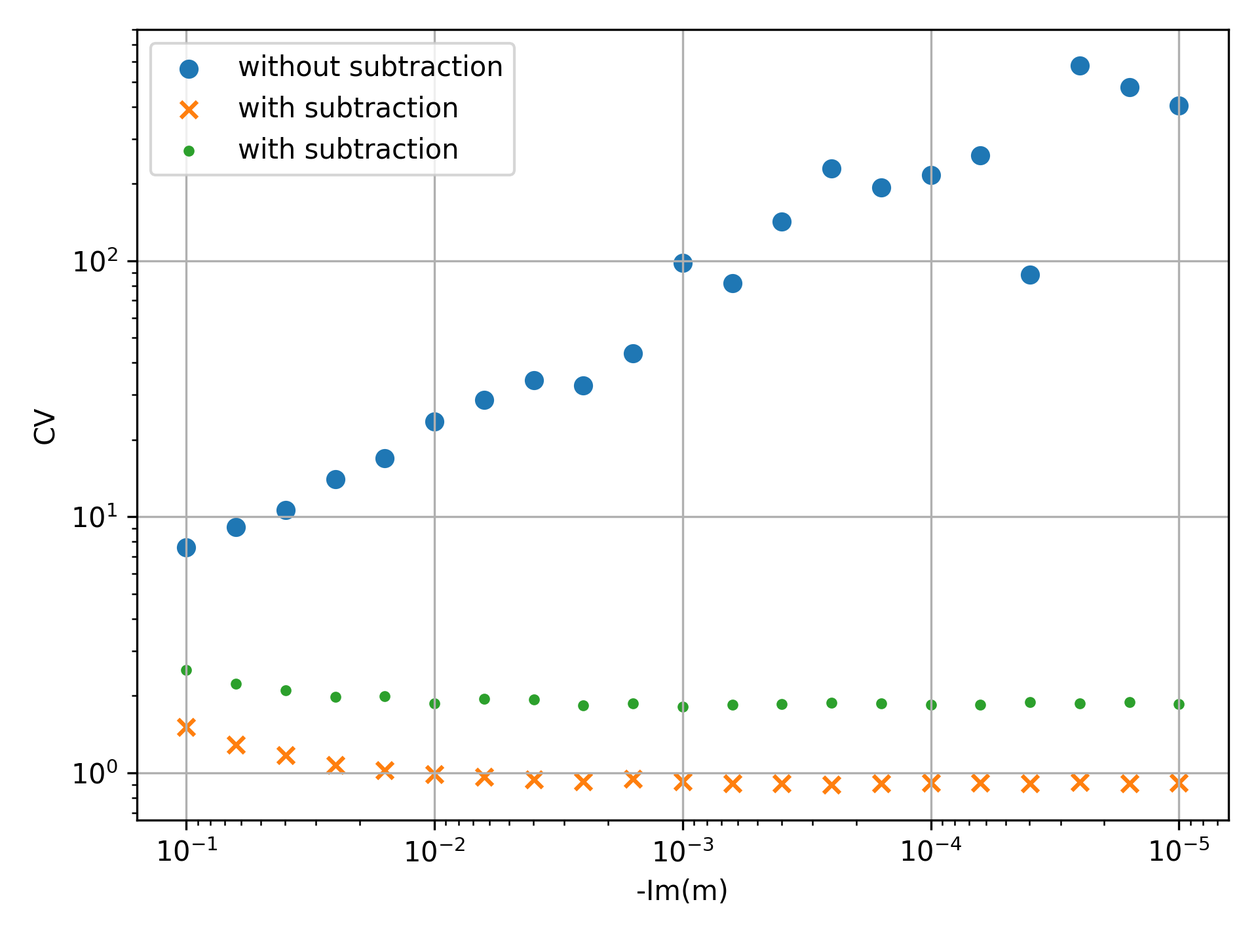
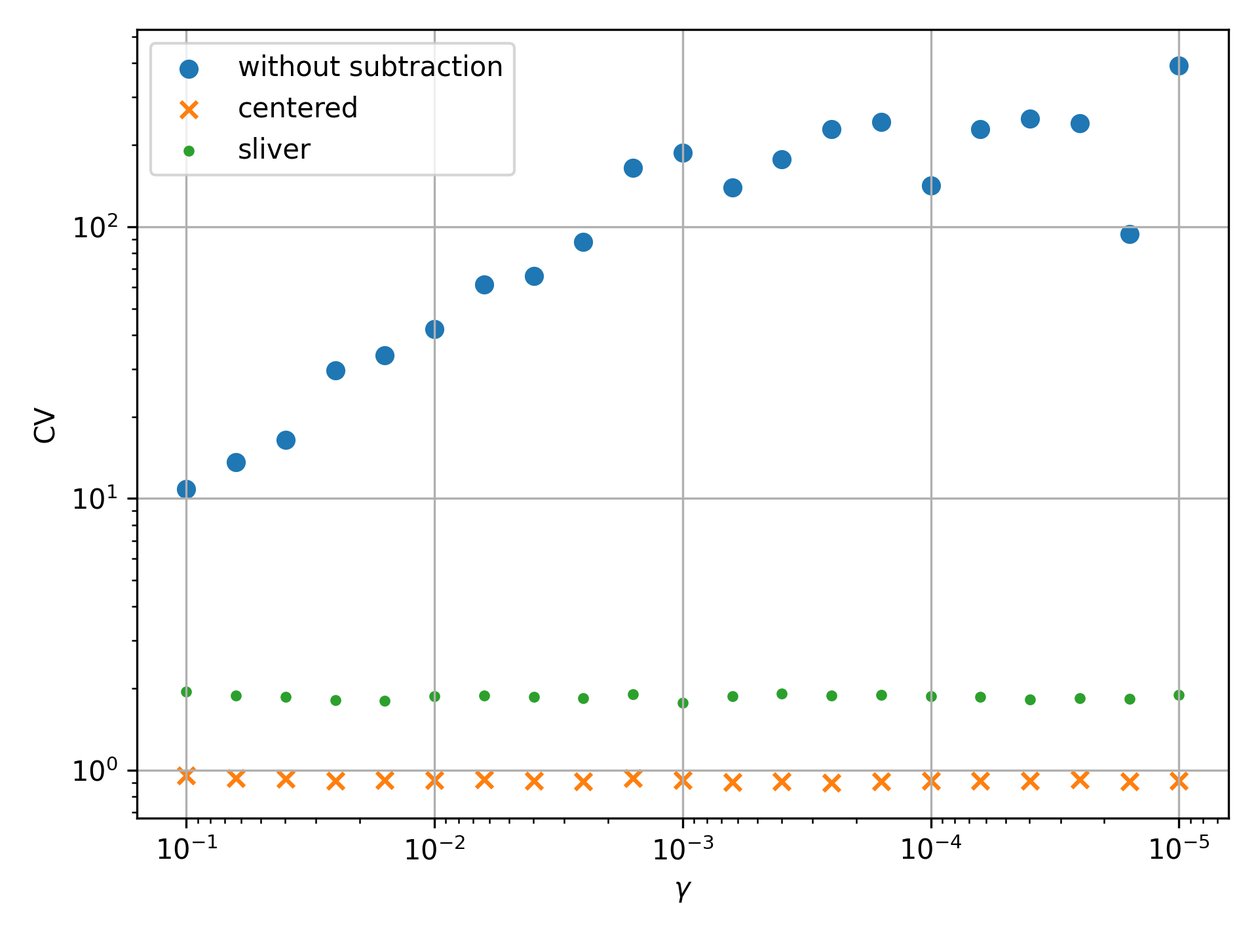
cleaned up later sections

diff --git a/latex/main.tex b/latex/main.tex
@@ -214,7 +214,7 @@ $\Re(m_i^2) > 0$ and $\Im(m_i^2) \leq 0$.
     \input{assets/diagrams/triangle.tex}
     \caption{Feynman diagram of the scalar triangle integral}\label{fig:triangle_feynman}
 \end{figure}
-The Feynman diagram in Figure~\ref{fig:triangle_feynman} produces eq.~\eqref{eq:triangle_integral}.
+The Feynman diagram in fig.~\ref{fig:triangle_feynman} produces eq.~\eqref{eq:triangle_integral}.
 \begin{equation}
     I = \int \frac{\dd[4]{k}}{{(2\pi)}^4} \frac{i}{D_1 \, D_2 \, D_3} \label{eq:triangle_integral}
 \end{equation}
@@ -235,9 +235,9 @@ The momenta $\vb{q_i}$ are defined as
 The structure of the singularities of the triangle
 integral~\eqref{eq:triangle_integral} is intricate, and the singularities are
 present even for large momenta $\vb{k}^\mu \to \infty$. This can be illustrated
-by considering eq~\eqref{eq:triangle_integral} in one spatial dimension. The
+by considering eq.~\eqref{eq:triangle_integral} in one spatial dimension. The
 integrand can the be visualized for all values of $(\vb{k}^0, \vb{k^1}) \in
-    \real^2$, as shown in Figure~\ref{fig:1d_example}.
+    \real^2$, as shown in fig.~\ref{fig:1d_example}.
 
 \begin{figure}[H]
     \centering
@@ -272,7 +272,7 @@ with
 \begin{equation}
     E_i = \sqrt{{\qty(\va{k}-\va{q}_i)}^2+m_i^2} - i\varepsilon
 \end{equation}
-Closing the contour around the poles corresponding to the principal square roots leads to the contour shown in Figure~\ref{fig:poles}
+Closing the contour around the poles corresponding to the principal square roots leads to the contour shown in fig.~\ref{fig:poles}
 \begin{figure}[H]
     \centering
     \input{assets/diagrams/poles.tex}
@@ -468,7 +468,7 @@ At this point it also makes sense to simplify with the lorentz invariant quantit
 %    \vb{q}^2-\frac{m_i^2 + m_j^2}{2} - \va{k'}^2 + {\qty(\va{k'}\cdot \frac{\va{q}}{q^0})}^2 - 2 \qty(\frac{m_i^2 - m_j^2}{4q^0}) \qty(\va{k'}\cdot \frac{\va{q}}{q^0}) + {\qty(\frac{m_i^2 - m_j^2}{4q^0})}^2 = 0
 %\end{equation}
 \begin{equation}
-    \va{k'}^2 - {\qty(\va{k'}\cdot\va{v})}^2 - 2 \Delta \qty(\va{k'}\cdot\va{v}) - \vb{q}^2 + \braket{m^2} + \Delta^2 = 0 \label{eq:quad_k_prime}
+    \va{k'}^2 - {\qty(\va{k'}\cdot\va{v})}^2 + 2 \Delta \qty(\va{k'}\cdot\va{v}) - \vb{q}^2 + \braket{m^2} - \Delta^2 = 0 \label{eq:quad_k_prime}
 \end{equation}
 with
 \begin{equation}
@@ -495,7 +495,7 @@ with
 \begin{align}
     \alpha & = 1-{\qty(\hat{\vb{k}}\cdot\va{v})}^2                                                                             \\
     \beta  & = 2(\hat{\vb{k}}\cdot\va{k'_0})-2(\hat{\vb{k}}\cdot\va{v})(\va{k'_0}\cdot\va{v})-2\Delta(\hat{\vb{k}}\cdot\va{v}) \\
-    \gamma & = \va{k'_0}^2-{\qty(\va{k'_0}\cdot\va{v})}^2-2\Delta(\va{k'_0}\cdot\va{v})-\vb{q}^2+\braket{m^2}+\Delta^2
+    \gamma & = \va{k'_0}^2-{\qty(\va{k'_0}\cdot\va{v})}^2-2\Delta(\va{k'_0}\cdot\va{v})-\vb{q}^2+\braket{m^2}-\Delta^2
 \end{align}
 This quadratic equation can be solved with the standard quadratic formula, and thus always has exactly two complex valued solutions, which will be called $k^*_+$ and $k^*_-$. These solutions need to be checked for validity with one of the proposed methods.
 
@@ -524,7 +524,7 @@ eq.~\eqref{eq:quadratic_k} into the following.
 \end{equation}
 Considering that if the external momenta are on-shell, we find that $\norm{v} < 1$. This ensures that we do not divide be zero, and the sign of the denominator is always positive.
 Thus we can see, that real solutions for $k$ only exist if $\vb{q}^2-m^2 > 0$. In this case eq.~\eqref{eq:quadratic_k_simple} defines a prolate spheroid. This is the shape of the E-surface for equal-mass particles.
-In Figure~\ref{fig:e_surf_example} we see an example of an E-surface in the equal mass case.
+In fig.~\ref{fig:e_surf_example} we see an example of an E-surface in the equal mass case.
 
 \begin{figure}[H]
     \centering
@@ -597,16 +597,41 @@ Several useful observations can be made on the choice of $\chi$.
 For our purposes we choose a mask that is only nonzero in a finite region and cancels the Jacobian factor.
 \begin{equation}
     \chi{\va{k}} = \begin{cases}
-        \frac{{k^*}^2}{k^2} & \abs{\Re(k)-\mu} < \lambda \\
+        \frac{{k^*}^2}{k^2} & \abs{\Re(k)-\mu(k^*)} < \lambda(k^*) \\
         0                   & \text{else}
     \end{cases} \label{eq:mask}
 \end{equation}
-With the real valued hyperparameters $\mu$ and $\lambda$. For a successful subtraction we need to make sure, that the pole of the counterterm is inside the mask, i.e. $\abs{\Re(k^*)-\mu} < \lambda$.
+
+% NOTE: choosing Re(k^*) instead of k^* still works if k^* is real, but does not work for small values of k^*!!!
+% Should maybe write this down somewhere 
+
+With the real valued hyperparameters $\mu(k^*)$ and $\lambda(k^*)$. For a successful subtraction we need to make sure, that the pole of the counterterm is inside the mask, i.e. $\abs{\Re(k^*)-\mu(k^*)} < \lambda(k^*)$.
 With this choice performing the radial integral becomes particularly simple
 \begin{equation}
-    \int \dd{k} I_{\on{CT}}(k^*) = \int_{\mu - \lambda}^{\mu + \lambda} \dd{k} \frac{1}{k-k^*} = \ln(\frac{\mu + \lambda-k^*}{\mu-\lambda-k^*}) \label{eq:integrated_counterterm}
+    \int \dd{k} I_{\on{CT}}(k^*) = f(\va{k^*}) \int_{\mu(k^*) - \lambda(k^*)}^{\mu(k^*) + \lambda(k^*)} \dd{k} \frac{1}{k-k^*} = f(\va{k^*}) \ln(\frac{\mu(k^*) + \lambda(k^*)-k^*}{\mu(k^*)-\lambda(k^*)-k^*}) \label{eq:integrated_counterterm}
 \end{equation}
 
+Regarding the choice of the hyperparameters $\mu(k^*)$ and $\lambda(k^*)$ We will consider 3 different combinations.
+\begin{itemize}
+    \item \textbf{Centered region with constant radius}\\
+    In which case the subtraction region would be independent of the location of the threshold. This means that we must manually ensure that the parameter $\lambda_0$ is chosen large enough to include the threshold in the subtraction region.
+    \begin{align}
+        \mu(k^*) &= 0\\
+        \lambda(k^*) &= \Re(k^*)
+    \end{align}
+    \item \textbf{Sliver region with constant width}\\
+    In which case the subtraction region would be a sliver with a half width of $\lambda_0$. This has the advantage of being more robust with respect to the choice of the hyperparameter $\lambda_0$.
+    \begin{align}
+        \mu(k^*) &= \Re{k^*}\\
+        \lambda(k^*) &= \lambda_0
+    \end{align}
+    \item \textbf{Sliver region with variable width}\\
+    In which case the subtraction region would be a sliver with a half width of $\lambda_0$ centered around the threshold located in the complex plane. Meaning that the subtraction region viewed from the real axis would get smaller as the imaginary part of the threshold gets larger.
+    \begin{align}
+        \lambda(k^*) &= \lambda_0\\
+        \lambda(k^*) &= \sqrt{\lambda_0^2 - {\Im(k^*)}^2}\Theta(\lambda_0^2 - {\Im(k^*)}^2) \label{eq:sliver_mod}
+    \end{align}
+\end{itemize}
 %We may compare this result with the result derived in~\cite{kermanschah_numerical_2022}, where only real valued thresholds are considered. Therefore they choose a symmetric mask so that the real part of the counterterm vanishes.
 %Our mask is also symmetric, if we choose the hyperparameters correctly, namely where $\mu = \Re k^*$. In this case real part vanishes due to symmetry around $\Re k^*$ and the result becomes
 %\begin{equation}
@@ -657,11 +682,11 @@ We consider the simple approach, where the integrated counterterm is scaled by s
 
 For our purposes we will consider two different functions $g(k)$
 \begin{equation}
-    g_{\Theta}(k) = \Theta(\lambda - \abs{\Re(k)-\mu}) \frac{3}{{(\mu+\lambda)}^3 - {(\mu-\lambda)}^3}
+    g_{\Theta}(k) = \Theta(\Lambda - \abs{\Re(k)-\mu}) \frac{3}{{(\mu+\Lambda)}^3 - {(\mu-\Lambda)}^3}
 \end{equation}
 
 \begin{equation}
-    g_{\exp}(k) = \exp(-\frac{{(\Re(k)-\mu)}^2}{\lambda^2}) \frac{1}{\sqrt{\pi} \lambda (\mu^2 + \frac{\lambda^2}{2})}
+    g_{\exp}(k) = \exp(-\frac{{(\Re(k)-\mu)}^2}{\Lambda^2}) \frac{1}{\sqrt{\pi} \Lambda (\mu^2 + \frac{\Lambda^2}{2})}
 \end{equation}
 
 To facilitate implementation of both the original integrand, the counterterm, integrated counterterm and any combination thereof we will also introduce the scaling factors $\mathbf{a}, \mathbf{b}, \mathbf{c} \in \{0,1\}$ to
@@ -677,14 +702,42 @@ Introducing the scaling factors and the factor $g(k)$ to eq.~\eqref{eq:integral_
 
 \section{Numerical implementation}\label{sec:numerical_implementation}
 
-The numerical implementation of the integrand in eq.~\eqref{eq:integrand} is performed in Python using the Python API of the \texttt{Symbolica} library~\cite{symbolica}, which supports compilation of symbolic expressions into optimized assembly code for fast evaluation and implements efficient algorithms for numerical integration. The source code of our implementation is available on github under the MIT license\footnote{\url{https://github.com/SecretGmG/triangler}}.
+The numerical implementation of the integrand in eq.~\eqref{eq:integrand} is performed in Python using the Python API of the \texttt{Symbolica} library~\cite{symbolica}, which supports compilation of symbolic expressions into optimized assembly code for fast evaluation and the \emph{VEGAS} algorithm for numerical integration.
+
+Our implementations allows for the building of the integrand from eq.~\eqref{eq:integrand}. It is possible to choose between any of the following features during the build process of the expression.
+\begin{itemize}
+    \item Enable/disable the numerical check existence condition.
+    \item Choose between the $g_{\exp}$ and $g_\Theta$ scaling functions.
+    \item Choose whether the center of the subtraction region $\mu$ should be chosen at the real value of the location of the threshold $\mu = \Re(k^*)$ or at the origin of the coordinate system $\mu = 0$.
+    \item Choose whether or not to modify the hyperparameter $\lambda$ in accordance to eq.~\eqref{eq:sliver_mod} $\lambda = \sqrt{\lambda_0^2 - {\Im(k^*)}^2}\Theta(\lambda_0^2 - {\Im(k^*)}^2)$
+\end{itemize}
+The minimum value existence condition is controlled via an additional hyperparameter which determines the maximum allowed value of $\min_{\vb{k}} \ELIPT{i}{j}$ for each E-surface. To enable the minimum value existence condition set the hyperparameter zero, to disable the minimum value existence condition set the hyperparameter to infinity.
+
+All other hyperparameters and parameters can be set via a context object which is used to call the compiled expression.
+
+implThe source code of our implementation is available on github under the MIT license\footnote{\url{https://github.com/SecretGmG/triangler}}.
 
 
 \subsection{Numerical Integration}
-TODO: Short primer on numerical integration and measuring convergence.
 
-\subsubsection{Parametrization}
-\texttt{Symbolica} provides efficient sampling in $N$-dimensional hypercubes.
+Monte Carlo integration estimates an integral by sampling the integrand at randomly chosen points in the integration domain. The integral is approximated by the sample mean multiplied by the volume of the domain. Since the estimator is an average, its uncertainty can be estimated by the standard error of the mean, given by the sample standard deviation divided by the square root of the number of samples.
+
+Symbolica implements the \emph{VEGAS} algorithm for numerical integration, which adapts the sampling grid to the shape of the integrand, sampling regions where the integrand is large more frequently and regions where the integrand is small, thus improving the accuracy of the estimate.
+
+The \emph{VEGAS} algorithm treats each dimension separately and partitions each dimension into $n$ bins. Samples are taken from the grid by sampling a floating point number between $0$ and $1$ per dimension.
+
+The grid starts out uniformly, but then adapts to concentrate around the peaks. Since each bin is sampled with equal probability, with smaller bins are sampled more often. This drastically improves the convergence of the algorithm and lowers the error.
+
+Symbolica only supports integration of real-valued functions. However, because its integration algorithm separates sampling, evaluation, and aggregation, we can extend it to complex-valued integrands by treating the real and imaginary parts as independent real-valued estimators. The sampling grid is adapted using the absolute value of the integrand, ensuring that regions important for both components are sampled.
+
+To compare different hyperparameter choices, we require an error measure that is independent of both the number of samples and the scale of the external momenta. We therefore use the coefficient of variation (CV), defined as the ratio of the estimated standard error to the absolute value of the estimated mean.
+
+\begin{equation}
+    CV = \frac{\sigma_I}{\abs{\bar{I}}}
+\end{equation}
+
+
+\emph{Symbolica} will always sample points in $N$-dimensional hypercube. The integral we actually want to compute is however 3-dimensional, specifically parameterized hemispherically.
 There are many reasonable choices to map from the unit hypercube to hemispherical coordinates. We choose the following mapping from unit hypercubes to the relevant parametrizations with their respective Jacobians $J$.
 
 \textbf{Unit Hemisphere}
@@ -717,38 +770,22 @@ with
 \end{equation}
 
 \subsection{Reference}
-The \textit{OneLOop} package~\cite{hameren_oneloop_2011} provides
-implementation for scalar loop integrals with up to 4 legs. We will use the
-open source package
-\textit{OneLOopBridge}\footnote{\url{https://github.com/SecretGmG/OneLOopBridge}}
-that was written in conjunction to this thesis to compute the reference values
-for the integrals.\textit{OneLOopBridge} provides Python and Rust bindings for
-the \textit{OneLOop} package, which is written in Fortran. A more detailed
-description of the usage of \textit{OneLOopBridge} can be found in
-Appendix~\ref{sec:oneloopbridge}.
+To check our implementation we need to compare it to some reference values.\@\textit{OneLOop} implements the analytical solutions for scalar loop integrals with up to 4 legs, thus providing the exact results for the integrals we are interested in. To facilitate the comparison we have implemented a Python wrapper for the \textit{OneLOop} package called \textit{OneLOopBridge}\footnote{\url{https://github.com/SecretGmG/OneLOopBridge}} that was written in conjunction to this thesis to compute the reference values for the integrals.\@\textit{OneLOopBridge} provides Python and Rust bindings for the \textit{OneLOop} package, which is written in Fortran. A more detailed description of the usage of \textit{OneLOopBridge} can be found in Appendix~\ref{app:oneloopbridge}.
 
 \section{Results}\label{sec:results}
 \subsection{Small width}\label{sec:small_width}
-It is possible to regularize the integral by adding a small imaginary part to
-the masses. In this example we show the effect of this regularization on the
-numerical stability of the integral. As the regularization becomes smaller the
-threshold subtraction becomes necessary to ensure numerical stability of the
-integral, even for small finite widths.
+It is possible to regularize the integral by adding a small imaginary part to the masses. In this example we show the effect of this regularization on the numerical stability of the integral. As the regularization becomes smaller the threshold subtraction becomes necessary to ensure numerical stability of the integral, even for small finite widths.
 
-The external momenta in this example are chosen, such that they are aligned
-with the $z$-axis and in the COM-system. The masses in this example are always
-chosen to be equal $m_i = m$.
+The external momenta in this example are chosen, such that they are aligned with the $z$-axis and in the COM-system. The masses in this example are always chosen to be equal $m_i = m$.
 
 \begin{align*}
-    \vb{p_1}^2 = \SI{1}{\GeV^2} \qquad \vb{p_2}^2 = \SI{3}{\GeV^2} \qquad {(\vb{p_1}+\vb{p_2})}^2 = \SI{8}{\GeV^2}\qquad \Re(m) = \SI{0.2}{\GeV}
+    \vb{p_1}^2 = \SI{1}{\GeV^2} \qquad \vb{p_2}^2 = \SI{3}{\GeV^2} \qquad {(\vb{p_1}+\vb{p_2})}^2 = \SI{8}{\GeV^2}\qquad m = (1+\gamma i)\SI{0.4}{\GeV}
 \end{align*}
+where $\gamma$ is a dimensionless parameter controlling the decay width.
 
-In this example all of the three possible E-surfaces exist, this can be easily
-checked by applying the minimum value existence condition derived in
-Section~\ref{sec:extraneous_solutions}.
+In this example all of the three possible E-surfaces exist, this can be easily checked by applying the minimum value existence condition derived in Section~\ref{sec:extraneous_solutions}.
 
 \begin{samepage}
-
     This example will be used to compare the convergence behavior of different
     hyperparameters, as the width, which regularizes the integral gets smaller and
     thus the threshold subtraction becomes necessary. The following setups will be
@@ -762,8 +799,8 @@ Section~\ref{sec:extraneous_solutions}.
 
 \end{samepage}
 The threshold subtraction for the centered and uncentered cases are shown in
-Figure~\ref{fig:threshold subtraction_centered} and Figure~\ref{fig:threshold
-    subtraction_uncentered} respectively. On the lower half of the plots, where the
+fig.~\ref{fig:threshold subtraction_centered} and fig.~\ref{fig:threshold
+    subtraction_uncentered} respectively, to demonstrate the subtraction of complex poles a finite width with the parameter $\gamma = 0.01$ is used. On the lower half of the plots, where the
 integrand is shown along the $z$-axis it can be seen qualitatively that the
 threshold subtraction successfully removes the poles and flattens the
 integrand. We may also notice, that the sliver threshold subtraction produces
@@ -771,14 +808,14 @@ more discontinuities.
 
 Subtracting a sliver does however have the advantage of being more robust with
 respect to the choice of the hyperparameter $\lambda$, which is the half width
-of the sliver, as the subtraction region will \textit{always} contain the pole.
+of the sliver, as the subtraction region will \emph{always} contain the pole.
 Whereas subtracting a centered region will only contain the pole if the
 hyperparameter is large enough.
 \begin{figure}[H]
     \centering
     \includegraphics[width=0.9\textwidth]{assets/small_width/centered_subtraction.png}
     \caption{Centered threshold subtraction}\label{fig:threshold subtraction_uncentered}
-    Visualization of the threshold subtraction, with complex mass $m = (0.2-0.01 \mathit{i})\si{\GeV}$, using the
+    Visualization of the threshold subtraction, with complex mass $m = \SI{0.4}{\GeV}(1-0.01 i)$, using the
     The unsubtracted integrand, the counterterm and the subtracted integrand are shown in the $xz$-plane. The colormap is such the brightness corresponds to the absolute value of the function and the hue corresponds to the phase, with cyan corresponding to positive values and red corresponding to negative values.
 \end{figure}
 
@@ -786,16 +823,11 @@ hyperparameter is large enough.
     \centering
     \includegraphics[width=0.9\textwidth]{assets/small_width/uncentered_subtraction.png}
     \caption{Sliver threshold subtraction}\label{fig:threshold subtraction_centered}
-    Visualization of the threshold subtraction, with complex mass $m = (0.2-0.01 \mathit{i})\si{\GeV}$.
+    Visualization of the threshold subtraction, with complex mass $m = \SI{0.4}{\GeV}(1-0.01 i)$.
     The unsubtracted integrand, the counterterm and the subtracted integrand are shown in the $xz$-plane. The colormap is such the brightness corresponds to the absolute value of the function and the hue corresponds to the phase, with cyan corresponding to positive values and red corresponding to negative values.
 \end{figure}
 
-The integration is performed using the complex mass regularization for
-$-\Im(m)$ approaching zero. This coefficient is computed separately for the
-real and imaginary parts of the integration. The result of the numerical
-integration is shown in Figure~\ref{fig:small_width_integration}. It can be
-seen, that both the sliver and centered subtraction converge well on the
-correct result, even as the width gets smaller.
+We will now perform the integral for a range of parameters $\gamma$ approaching zero.  The result of the numerical integration is shown in fig.~\ref{fig:small_width_integration}. It can be seen, that both the sliver and centered subtraction converge well on the correct result, even as the width gets smaller.
 
 \begin{figure}[H]
     \centering
@@ -815,13 +847,7 @@ correct result, even as the width gets smaller.
     \caption{Comparison of subtraction regions across a range decay widths}\label{fig:small_width_integration}
 \end{figure}
 
-We can measure the convergence of the Monte Carlo integration using the
-coefficient of variation, defined as the standard deviation divided by the
-mean.
-\begin{equation}
-    \on{CV} = \frac{\sigma}{\mu}
-\end{equation}
-The coefficient of variation is shown in Figure~\ref{fig:small_width_cv}. It can be seen, that both subtraction methods have a great impact on the convergence of the integral. The coefficient of variation of the unsubtracted method increases exponentially as the width gets smaller, while the coefficient of variation of the subtracted method is less sensitive to the width. It is also interesting to note, that the centered subtraction has a lower coefficient of variation than the sliver subtraction. This difference may be caused by fact that the sliver subtraction produces more discontinuities, which may make it harder for the VEGAS sampler to learn the integrand.
+The coefficient of variation is shown in fig.~\ref{fig:small_width_cv}. We can see, that both subtraction methods have a great impact on the convergence of the integral. The coefficient of variation of the unsubtracted method increases exponentially as the width gets smaller, while the coefficient of variation of the subtracted method is less sensitive to the width. It is also interesting to note, that the centered subtraction has a lower coefficient of variation than the sliver subtraction. This difference may be caused by fact that the sliver subtraction produces more discontinuities, which may make it harder for the VEGAS sampler to learn the integrand.
 
 \begin{figure}[H]
     \centering
@@ -860,11 +886,11 @@ are
     m^2 = \SI{0.25}{\GeV^2} \qquad m^2 = \SI{0.75}{\GeV^2} \qquad  m^2 = \SI{2}{\GeV^2}
 \end{equation}
 
-Plotting the integral over a range including all of these threshold masses shown in Figure~\ref{fig:threshold_masses_integral} we see that, at least superficially, both methods of subtracting E-surfaces converge well on the correct result. We can also note that for masses larger than the largest threshold mass, the imaginary part of the integrand is equal to zero. This is expected, because in this case no singularities exist in the real valued integrand, that could introduce any imaginary part.
+Plotting the integral over a range including all of these threshold masses shown in fig.~\ref{fig:threshold_masses_integral} we see that, at least superficially, both methods of subtracting E-surfaces converge well on the correct result. We can also note that for masses larger than the largest threshold mass, the imaginary part of the integrand is equal to zero. This is expected, because in this case no singularities exist in the real valued integrand, that could introduce any imaginary part.
 
 It is important to note however, that for the per-sample method, the imaginary part of the integrand is not equal to zero, even in this region, because complex solutions of the E-surface equation get subtracted. As we can see, the per-sample method still converges well in this case, showing that the imaginary parts of the counterterm and integrated counterterm cancel themselves out exactly.
 
-The result of the numerical integration is shown in Figure~\ref{fig:threshold_masses_integral}. It can be seen, that both methods converge well on the correct result.
+The result of the numerical integration is shown in fig.~\ref{fig:threshold_masses_integral}. It can be seen, that both methods converge well on the correct result.
 \begin{figure}[H]
     \centering
     \begin{subfigure}[t]{0.48\textwidth}
@@ -881,11 +907,11 @@ The result of the numerical integration is shown in Figure~\ref{fig:threshold_ma
     \caption{Integration result with different E-surface existence conditions}\label{fig:threshold_masses_integral}
 \end{figure}
 
-It is more interesting to look at the coefficient of variation for the different methods. This is shown in Figure~\ref{fig:threshold_masses_cv}. As expected the integration for masses smaller than the smallest threshold mass $m^2 < \SI{0.25}{\GeV^2}$ has exactly the same behavior for the per-sample check and minimum value check. More interesting is that we can see that even for larger masses, up to the largest threshold mass $m^2 < \SI{2}{\GeV^2}$, the coefficient of variation of the two methods are very close to each other. As the largest threshold mass $m^2 < \SI{2}{\GeV}^2$ is reached, the coefficient of variation for the per-sample method starts to diverge from the minimum value method. Surprisingly it is the minimum value method that has the lower coefficient of variation.
+It is more interesting to look at the coefficient of variation for the different methods. This is shown in fig.~\ref{fig:threshold_masses_cv}. As expected the integration for masses smaller than the smallest threshold mass $m^2 < \SI{0.25}{\GeV^2}$ has exactly the same behavior for the per-sample check and minimum value check. More interesting is that we can see that even for larger masses, up to the largest threshold mass $m^2 < \SI{2}{\GeV^2}$, the coefficient of variation of the two methods are very close to each other. As the largest threshold mass $m^2 < \SI{2}{\GeV}^2$ is reached, the coefficient of variation for the per-sample method starts to diverge from the minimum value method. Surprisingly it is the minimum value method that has the lower coefficient of variation.
 
-We can qualitatively check if the threshold subtraction successfully regularizes the integrand by plotting the threshold subtraction for a configuration with a mass near t he threshold mass $m = (\sqrt{2} + \delta)\si{\GeV}$. This is shown in Figure~\ref{fig:threshold_masses_sub}. It can be seen, that the threshold subtraction indeed regularizes the integrand, so the reason for the divergence is not due to a failure of the threshold subtraction method.
+We can qualitatively check if the threshold subtraction successfully regularizes the integrand by plotting the threshold subtraction for a configuration with a mass near t he threshold mass $m = (\sqrt{2} + \delta)\si{\GeV}$. This is shown in fig.~\ref{fig:threshold_masses_sub}. It can be seen, that the threshold subtraction indeed regularizes the integrand, so the reason for the divergence is not due to a failure of the threshold subtraction method.
 
-To investigate this further we plot the coefficient of variation for a smaller range of masses near $m^2 < \SI{2}{\GeV^2}$ This is shown in Figure~\ref{fig:threshold_masses_cv_zoomed}. There it can be seen, that the coefficient of variation for the unsubtracted method starts to decrease even for masses smaller than the threshold mass. This indicates that as the size of the E-surface decreases, its effect on the integrand becomes less important. As the E-surface transitions from a 2-dimensional spheroid to a 0-D point, the effect of the E-surface on the integrand vanishes. Threshold subtraction can increase the coefficient of variation slightly by enlarging the integrand over broad regions, where it initially might have been close to zero. This small increase in the coefficient of variation likely is the reason for the slightly worse performance of the per-sample method. This is an interesting and important observation, as it indicates that threshold subtraction is not effective for ``imaginary'' E-surfaces, meaning that the per-sample method is not needed and the more performant and numerically stable minimum value method can be used.
+To investigate this further we plot the coefficient of variation for a smaller range of masses near $m^2 < \SI{2}{\GeV^2}$ This is shown in fig.~\ref{fig:threshold_masses_cv_zoomed}. There it can be seen, that the coefficient of variation for the unsubtracted method starts to decrease even for masses smaller than the threshold mass. This indicates that as the size of the E-surface decreases, its effect on the integrand becomes less important. As the E-surface transitions from a 2-dimensional spheroid to a 0-D point, the effect of the E-surface on the integrand vanishes. Threshold subtraction can increase the coefficient of variation slightly by enlarging the integrand over broad regions, where it initially might have been close to zero. This small increase in the coefficient of variation likely is the reason for the slightly worse performance of the per-sample method. This is an interesting and important observation, as it indicates that threshold subtraction is not effective for ``imaginary'' E-surfaces, meaning that the per-sample method is not needed and the more performant and numerically stable minimum value method can be used.
 \begin{figure}[H]
     \centering
     \includegraphics[width=0.8\textwidth]{assets/threshold_masses/cv.png}
@@ -922,7 +948,7 @@ To investigate this further we plot the coefficient of variation for a smaller r
 %intersect. Visualizing the E-surfaces for different momenta $\vb{p_2}^2$ we can
 %notice that as the momentum increases, the E-surfaces grow larger until they
 %intersect, after that they continue to grow. This is shown in
-%Figure~\ref{fig:anomalous_grow}.
+%fig.~\ref{fig:anomalous_grow}.
 %
 %If the integration center is chosen at exactly the point where the E-surfaces
 %touch, as the momentum increases, both E-surfaces will always be either inside
@@ -938,7 +964,7 @@ To investigate this further we plot the coefficient of variation for a smaller r
 %touch to be $\sqrt{p_2^2} = \on{AT} = (\SI{201.904892335}{\GeV})$. From now on
 %we will choose coordinates such that the center of integration is at
 %$z_{\on{AT}}$. Zoomed in visualizations of the E-surfaces are shown in
-%Figure~\ref{fig:anomalous_zoomed}.
+%fig.~\ref{fig:anomalous_zoomed}.
 %
 %Conjecture that anomalous thresholds appear exactly when E-surfaces touch, this
 %warrants further investigation.
@@ -1024,7 +1050,7 @@ To investigate this further we plot the coefficient of variation for a smaller r
 %    Q = -34
 %\end{align}
 %
-%The results are shown in Figure~\ref{fig:generalization_to_higher_loop_count}
+%The results are shown in fig.~\ref{fig:generalization_to_higher_loop_count}
 %
 %\begin{figure}[H]
 %    \centering
@@ -1044,7 +1070,7 @@ To investigate this further we plot the coefficient of variation for a smaller r
 
 \section{Conclusion}\label{sec:conclusion}
 
-In this thesis we was able to show that threshold subtraction is a valid and effective method of removing singularities from the triangle integral in the cross free family representation. Section~\ref{sec:small_width} shows, that subtraction of the poles in the complex plane is important for convergence, as the width, which regularizes the integral, gets small. Surprisingly the subtraction of poles corresponding to nonexisting or barely existing E-surfaces does not significantly improve convergence of the integration, as shown in Figure~\ref{fig:threshold_masses_cv_zoomed} in Section~\ref{sec:threshold_masses}. More generally, it can be seen, that the geometrical configuration of the E-surfaces, at least qualitatively, correlates strongly with the presence of anomalous thresholds! This should motivate further study of the geometrical properties of the E-surfaces for higher loop counts. The physical interpretation and significance of E-surfaces in general is something that warrants further research. Mathematically showing how touching E-surfaces correspond to anomalous thresholds, may lead to a deeper understand of anomalous thresholds in general.
+In this thesis we was able to show that threshold subtraction is a valid and effective method of removing singularities from the triangle integral in the cross free family representation. Section~\ref{sec:small_width} shows, that subtraction of the poles in the complex plane is important for convergence, as the width, which regularizes the integral, gets small. Surprisingly the subtraction of poles corresponding to nonexisting or barely existing E-surfaces does not significantly improve convergence of the integration, as shown in fig.~\ref{fig:threshold_masses_cv_zoomed} in Section~\ref{sec:threshold_masses}. More generally, it can be seen, that the geometrical configuration of the E-surfaces, at least qualitatively, correlates strongly with the presence of anomalous thresholds! This should motivate further study of the geometrical properties of the E-surfaces for higher loop counts. The physical interpretation and significance of E-surfaces in general is something that warrants further research. Mathematically showing how touching E-surfaces correspond to anomalous thresholds, may lead to a deeper understand of anomalous thresholds in general.
 
 As an initial exploratory step in the exploration of the higher loop count cases, we have qualitatively investigated the convergence of Newtons method for higher loop count integrals in Section~\ref{sec:generalization_to_higher_loop_count}. These initial findings suggests that even in the higher loop count case, no more than two solutions can be found.
 
